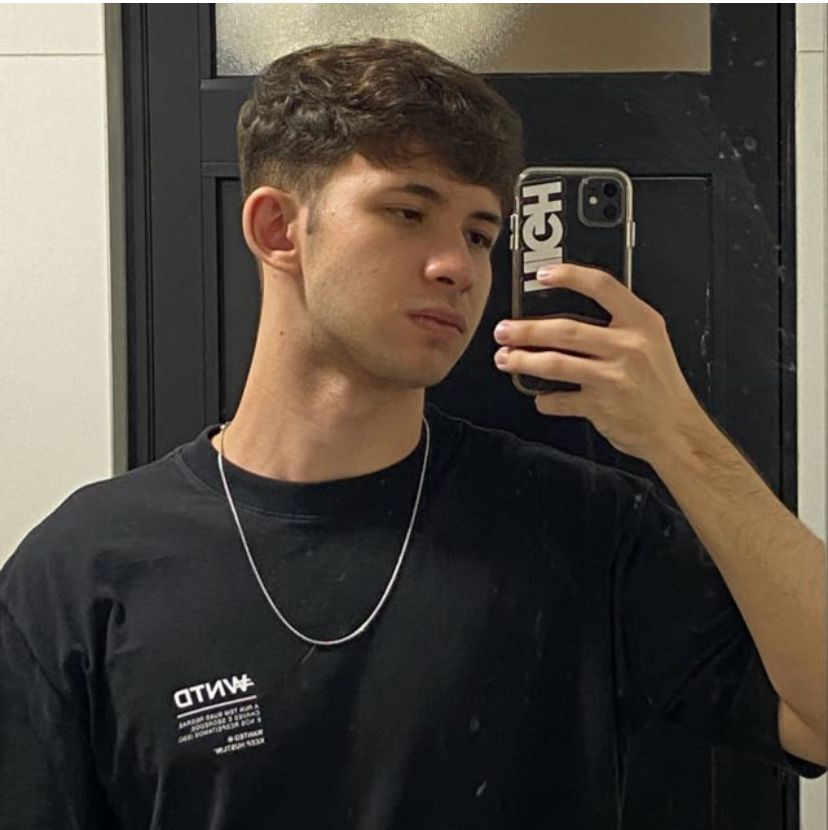
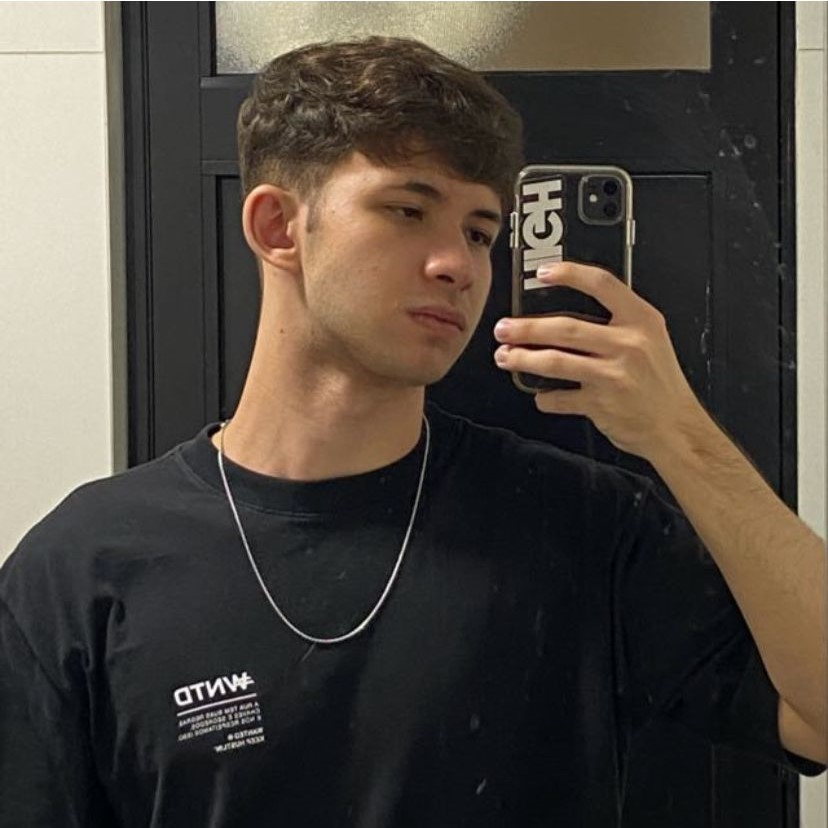
Alterado tamanho da imagem de perfil, inclusão de modificações visuais, alterando linha do telefone do projeto, estilizando o estilo da imagem de perfil

diff --git a/index.html b/index.html
@@ -7,6 +7,21 @@
     <link rel="stylesheet" href="style.css">
 </head>
 <body>
-    <h1>Curriculo</h1>
+    <header>
+        <div class="header-container">
+             <img src="perfil.jpeg" alt="" class="foto-perfil">
+             <div class="info-header">
+                <h1>Deivid Aparecido Galindo Oliveira</h1>
+                <p>Email: deivid.dd223@gmail.com | Telefone: (43)99664-5183</p>
+                <p>Linkedin: <a href="http://www.linkedin.com/in/DeividGalindo">Deivid Galindo</a></p>
+                <p>GitHub: <a href="https://github.com/DeividGalindo">Portifolio</a> </p>
+             </div>
+        </div>
+    </header>
+
+    <footer>
+
+
+    </footer>
 </body>
 </html>

diff --git a/style.css b/style.css
@@ -11,6 +11,25 @@ body{
 /* Estilo de cabeçalho */
 
 header{
-    
+    background-color: #222;
+    color: white;
+    padding: 20px;
+    text-align: center;
+}
+
+.header-container{
+    display: flex;
+    align-items: center;
+    justify-content: center;
+    flex-direction: column;
+}
+
+/* Trabalho o estilo da imagem do curriculo */
+
+.foto-perfil{
+    width: 150px;
+    height: 150px;
+    border-radius: 50%;
+    border: 3px solid white;
 }
 
